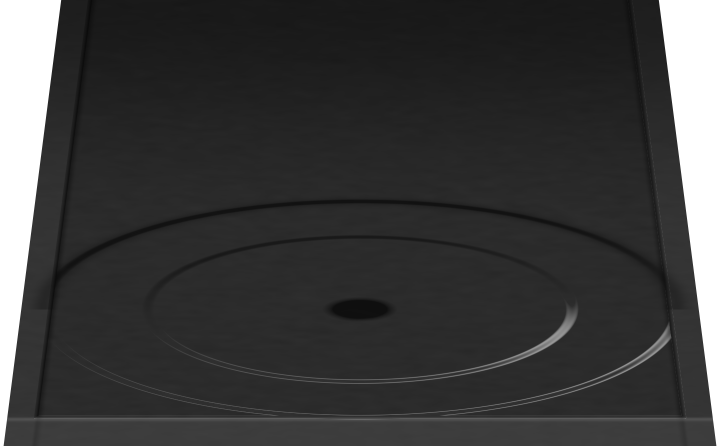
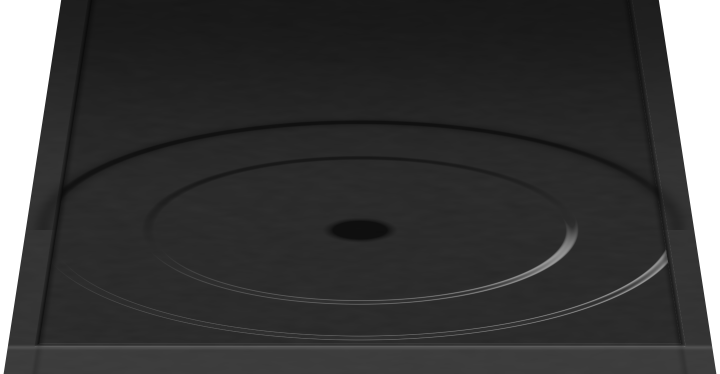
cd player: the inside of the player shows behind the open drawer
With the drawer out the slot showed a flat black hole. Behind the tray
there is now the dim inside of the player, lit only through the opening:
the back wall with the main board's edge, the left side wall with the
tray guide, the loading motor with its belt and gear, the spindle motor,
the optical pickup on its two steel rods with the lens catching some
light, and the clamper bridge across the top. The tray is a little
shorter so more of it shows.

diff --git a/native-ui-qt/qml/AnimCdFront.qml b/native-ui-qt/qml/AnimCdFront.qml
@@ -59,9 +59,9 @@ Item {
     readonly property real slotTop: 31
     readonly property real slotBottom: 100
     readonly property real travel: 140
-    readonly property real bedH: 124
+    readonly property real bedH: 104
     readonly property real bedDiscX: 100
-    readonly property real bedDiscY: 86
+    readonly property real bedDiscY: 64
     readonly property real discRx: 85
     readonly property real squash: 30 / 88         // the disc seen at a grazing angle
     // name: [x0, y0, x1, y1] (cdfront.py KEYS)
@@ -276,6 +276,13 @@ Item {
             source: root.assetsBase + (root.power || !root.live ? "cdf-led-green.png" : "cdf-led-red.png")
         }
 
+        // the inside of the player, behind the slot: only while the drawer is out
+        Pic {
+            x: 18; y: 30; width: 206; height: 70           // cdfront.py SLOT
+            visible: root.trayOut > 0.001
+            source: root.assetsBase + "cdf-inside.png"
+        }
+
         // the drawer: its bed (with the disc) shows behind the drawer front as
         // it comes out, in front of the panel below the slot and, further
         // back, inside the slot's opening, in the shade of the cabinet
@@ -359,9 +366,9 @@ Item {
             Rectangle {
                 width: parent.width; height: root.slotBottom - root.slotTop
                 gradient: Gradient {
-                    GradientStop { position: 0.0; color: Qt.rgba(0, 0, 0, 0.88) }
-                    GradientStop { position: 0.7; color: Qt.rgba(0, 0, 0, 0.55) }
-                    GradientStop { position: 1.0; color: Qt.rgba(0, 0, 0, 0.35) }
+                    GradientStop { position: 0.0; color: Qt.rgba(0, 0, 0, 0.60) }
+                    GradientStop { position: 0.7; color: Qt.rgba(0, 0, 0, 0.35) }
+                    GradientStop { position: 1.0; color: Qt.rgba(0, 0, 0, 0.15) }
                 }
             }
         }

diff --git a/native-ui-qt/tools/np-anim/cdfront.py b/native-ui-qt/tools/np-anim/cdfront.py
@@ -27,6 +27,8 @@ there):
                      (BED_W x BED_H; its front edge meets the drawer front)
   cdf-drawer-sh.png  the shadow the open drawer casts on the front below it
   cdf-drawer-side.png  the drawer's right side, shown as it comes out
+  cdf-inside.png     the inside of the player behind the slot, seen when the
+                     drawer is out (SLOT's box)
   cdf-led-red.png    the standby LED lit
   cdf-led-green.png  the power LED lit
 """
@@ -47,8 +49,8 @@ SPLIT_Y = 120                         # the step down to the lower part
 SLOT = (18, 30, 224, 100)
 DRAWER = (21, 33, 221, 97)
 TRAVEL = 140                          # how far the drawer comes out
-BED_W, BED_H = 200, 124               # its front edge is the drawer front's top
-BED_DISC = (100, 86)                  # disc centre in the bed (middle of what shows when open)
+BED_W, BED_H = 200, 104               # its front edge is the drawer front's top
+BED_DISC = (100, 64)                  # disc centre in the bed (middle of what shows when open)
 BED_DISC_R = (88, 30)                 # the 12 cm recess as seen (rx, ry)
 WIN = (236, 26, 414, 106)             # the smoked window of the display
 VFD_AT = (246.6, 26)                  # the LcdCd panel (196 x 100) at VFD_K
@@ -329,6 +331,90 @@ def build_bed(out):
     save(cv.image(), out, "cdf-bed.png")
 
 
+def build_inside(out):
+    """What shows through the slot behind the tray: the dim inside of the
+    player, lit only by what comes in through the opening (darker towards the
+    back). The back wall with the edge of the main board; the left side wall
+    with the tray's guide; on the floor behind the tray the loading motor with
+    its belt and gear, the spindle motor and the optical pickup on two steel
+    rods, its lens catching a little light; across the top the bridge with the
+    disc clamper."""
+    x0, y0, x1, y1 = SLOT
+    cv = Canvas(x0, y0, x1 - x0, y1 - y0, PPT)
+    X, Y, n = cv.X, cv.Y, cv.n
+    rng = np.random.default_rng(47)
+    depth = smoothstep(y0, y1, Y)                      # 0 at the back .. 1 at the opening
+    BACK_Y = y0 + 9                                    # the back wall's foot
+    wall_x = x0 + 3 + (y1 - Y) * 0.34                  # the left wall's edge on the floor
+    grain = 0.10 * streaks(X.shape, n, rng, 8, 0.3)
+
+    # the floor: a stamped steel deck
+    floor = 0.012 * (1 + grain)
+    col = np.array(floor)
+    # back wall: dark, with the green edge of the main board and two connectors
+    back = Y < BACK_Y
+    col = np.where(back, 0.006 * (1 + grain), col)
+    rgb = np.repeat(col[..., None], 3, axis=2)
+    board = (Y > y0 + 3.5) & (Y < BACK_Y - 1.0) & (X > x0 + 30) & (X < x1 - 20)
+    rgb = np.where(board[..., None], rgb3((0.004, 0.010, 0.006)) * (1 + grain)[..., None], rgb)
+    for cxn, w in ((x0 + 60, 12), (x0 + 142, 18)):
+        conn = cv.cov(sd_rrect(X, Y, cxn, y0 + 4.5, cxn + w, BACK_Y - 2.0, 0.4))
+        rgb = rgb * (1 - conn[..., None]) + rgb3((0.030, 0.030, 0.028)) * conn[..., None]
+    # the left side wall, facing the view
+    lw = cv.cov(X - wall_x) * (Y >= BACK_Y - 0.5)
+    rgb = rgb * (1 - lw[..., None]) + (0.009 * (1 + grain))[..., None] * lw[..., None]
+    guide = np.exp(-((Y - (BACK_Y + 14 + (X - x0) * 1.6)) / 0.4) ** 2) * lw
+    rgb = rgb + (0.03 * guide)[..., None]
+
+    def put(c, a):
+        nonlocal rgb
+        rgb = rgb * (1 - a[..., None]) + c * a[..., None]
+
+    # loading motor, belt and gear, at the back left
+    pul = (x0 + 44, BACK_Y + 5)
+    gear = (x0 + 66, BACK_Y + 9)
+    belt = np.abs(np.abs((Y - pul[1]) - (X - pul[0]) * (gear[1] - pul[1]) / (gear[0] - pul[0])) - 1.6) < 0.35
+    belt = belt & (X > pul[0]) & (X < gear[0])
+    put(rgb3((0.005, 0.005, 0.005)), belt.astype(np.float32))
+    m = cv.cov(np.hypot((X - pul[0]) / 4.0, (Y - pul[1]) / 1.6) - 1)
+    put(rgb3((0.06, 0.06, 0.065)), m)
+    g_r = np.hypot((X - gear[0]) / 7.0, (Y - gear[1]) / 2.6)
+    ang = np.arctan2((Y - gear[1]) / 2.6, (X - gear[0]) / 7.0)
+    teeth = 1 + 0.06 * np.sign(np.sin(ang * 18))
+    put(rgb3((0.035, 0.034, 0.030)), cv.cov((g_r - teeth) * 5))
+    put(rgb3((0.010, 0.010, 0.010)), cv.cov((g_r - 0.35) * 5))
+    # spindle motor: a turned hub on a round can, under where the disc's centre sits
+    sp = (x0 + 103, BACK_Y + 13)
+    can = cv.cov(np.hypot((X - sp[0]) / 9.0, (Y - sp[1]) / 3.2) - 1)
+    put(rgb3((0.050, 0.050, 0.052)), can)
+    hub = np.hypot((X - sp[0]) / 5.0, (Y - sp[1] + 1.5) / 1.8)
+    put(rgb3((0.12, 0.12, 0.125)) * (0.7 + 0.5 * np.clip(1 - hub, 0, 1))[..., None], cv.cov((hub - 1) * 4))
+    put(rgb3((0.45, 0.45, 0.46)), cv.cov(np.hypot(X - sp[0], (Y - sp[1] + 1.8) * 2.2) - 0.7))
+    # the optical pickup on two steel rods, towards the right
+    for ry_ in (BACK_Y + 8.0, BACK_Y + 17.0):
+        rod = np.exp(-((Y - ry_) / 0.35) ** 2) * (X > x0 + 118) * (X < x1 - 14)
+        put(rgb3((0.13, 0.13, 0.135)), np.clip(rod, 0, 1))
+    sled = cv.cov(sd_rrect(X, Y, x0 + 138, BACK_Y + 6.5, x0 + 162, BACK_Y + 18.5, 1.0))
+    put(rgb3((0.022, 0.022, 0.024)), sled)
+    lens = np.hypot((X - (x0 + 150)) / 3.2, (Y - (BACK_Y + 11.5)) / 1.4)
+    put(rgb3((0.004, 0.004, 0.010)), cv.cov((lens - 1) * 3))
+    glint = np.exp(-(np.hypot(X - (x0 + 149), (Y - (BACK_Y + 11.0)) * 2.0) / 0.9) ** 2)
+    rgb = rgb + glint[..., None] * rgb3((0.10, 0.06, 0.22))
+    # the clamper bridge across the top, the clamper hanging from it
+    bridge = cv.cov(sd_rrect(X, Y, x0 + 24, y0 - 2, x1 - 24, y0 + 3.0, 0.8))
+    put(rgb3((0.028, 0.028, 0.030)) * (1 + 0.5 * np.exp(-((Y - (y0 + 2.6)) / 0.35) ** 2))[..., None], bridge)
+    cl = np.hypot((X - (x0 + 103)) / 13.0, (Y - (y0 + 4.2)) / 3.0)
+    put(rgb3((0.040, 0.040, 0.042)) * (0.8 + 0.6 * np.clip(Y - (y0 + 3.0), 0, 3)[..., None] / 3), cv.cov((cl - 1) * 4))
+
+    # light comes in through the opening: stronger near it, and the upper
+    # lip of the slot shades the first few points
+    light = 0.70 + 1.30 * depth ** 1.6
+    light = light * (0.35 + 0.65 * smoothstep(y0, y0 + 5, Y))
+    rgb = rgb * light[..., None]
+    cv.over(srgb(rgb), cv.cov(sd_rrect(X, Y, *SLOT, 1.5)))
+    save(cv.image(), out, "cdf-inside.png")
+
+
 def build_drawer_side(out):
     """The drawer's right-hand side, seen as it comes out (the drawer is left
     of the middle of the view): a dark satin face, lit along its top."""
@@ -373,7 +459,8 @@ def main():
     args = ap.parse_args()
     os.makedirs(args.out, exist_ok=True)
     builders = {"base": build_base, "drawer": build_drawer, "bed": build_bed,
-                "shadow": build_drawer_shadow, "side": build_drawer_side, "leds": build_leds}
+                "shadow": build_drawer_shadow, "side": build_drawer_side, "inside": build_inside,
+                "leds": build_leds}
     only = [s for s in args.only.split(",") if s]
     for k, f in builders.items():
         if not only or k in only:
